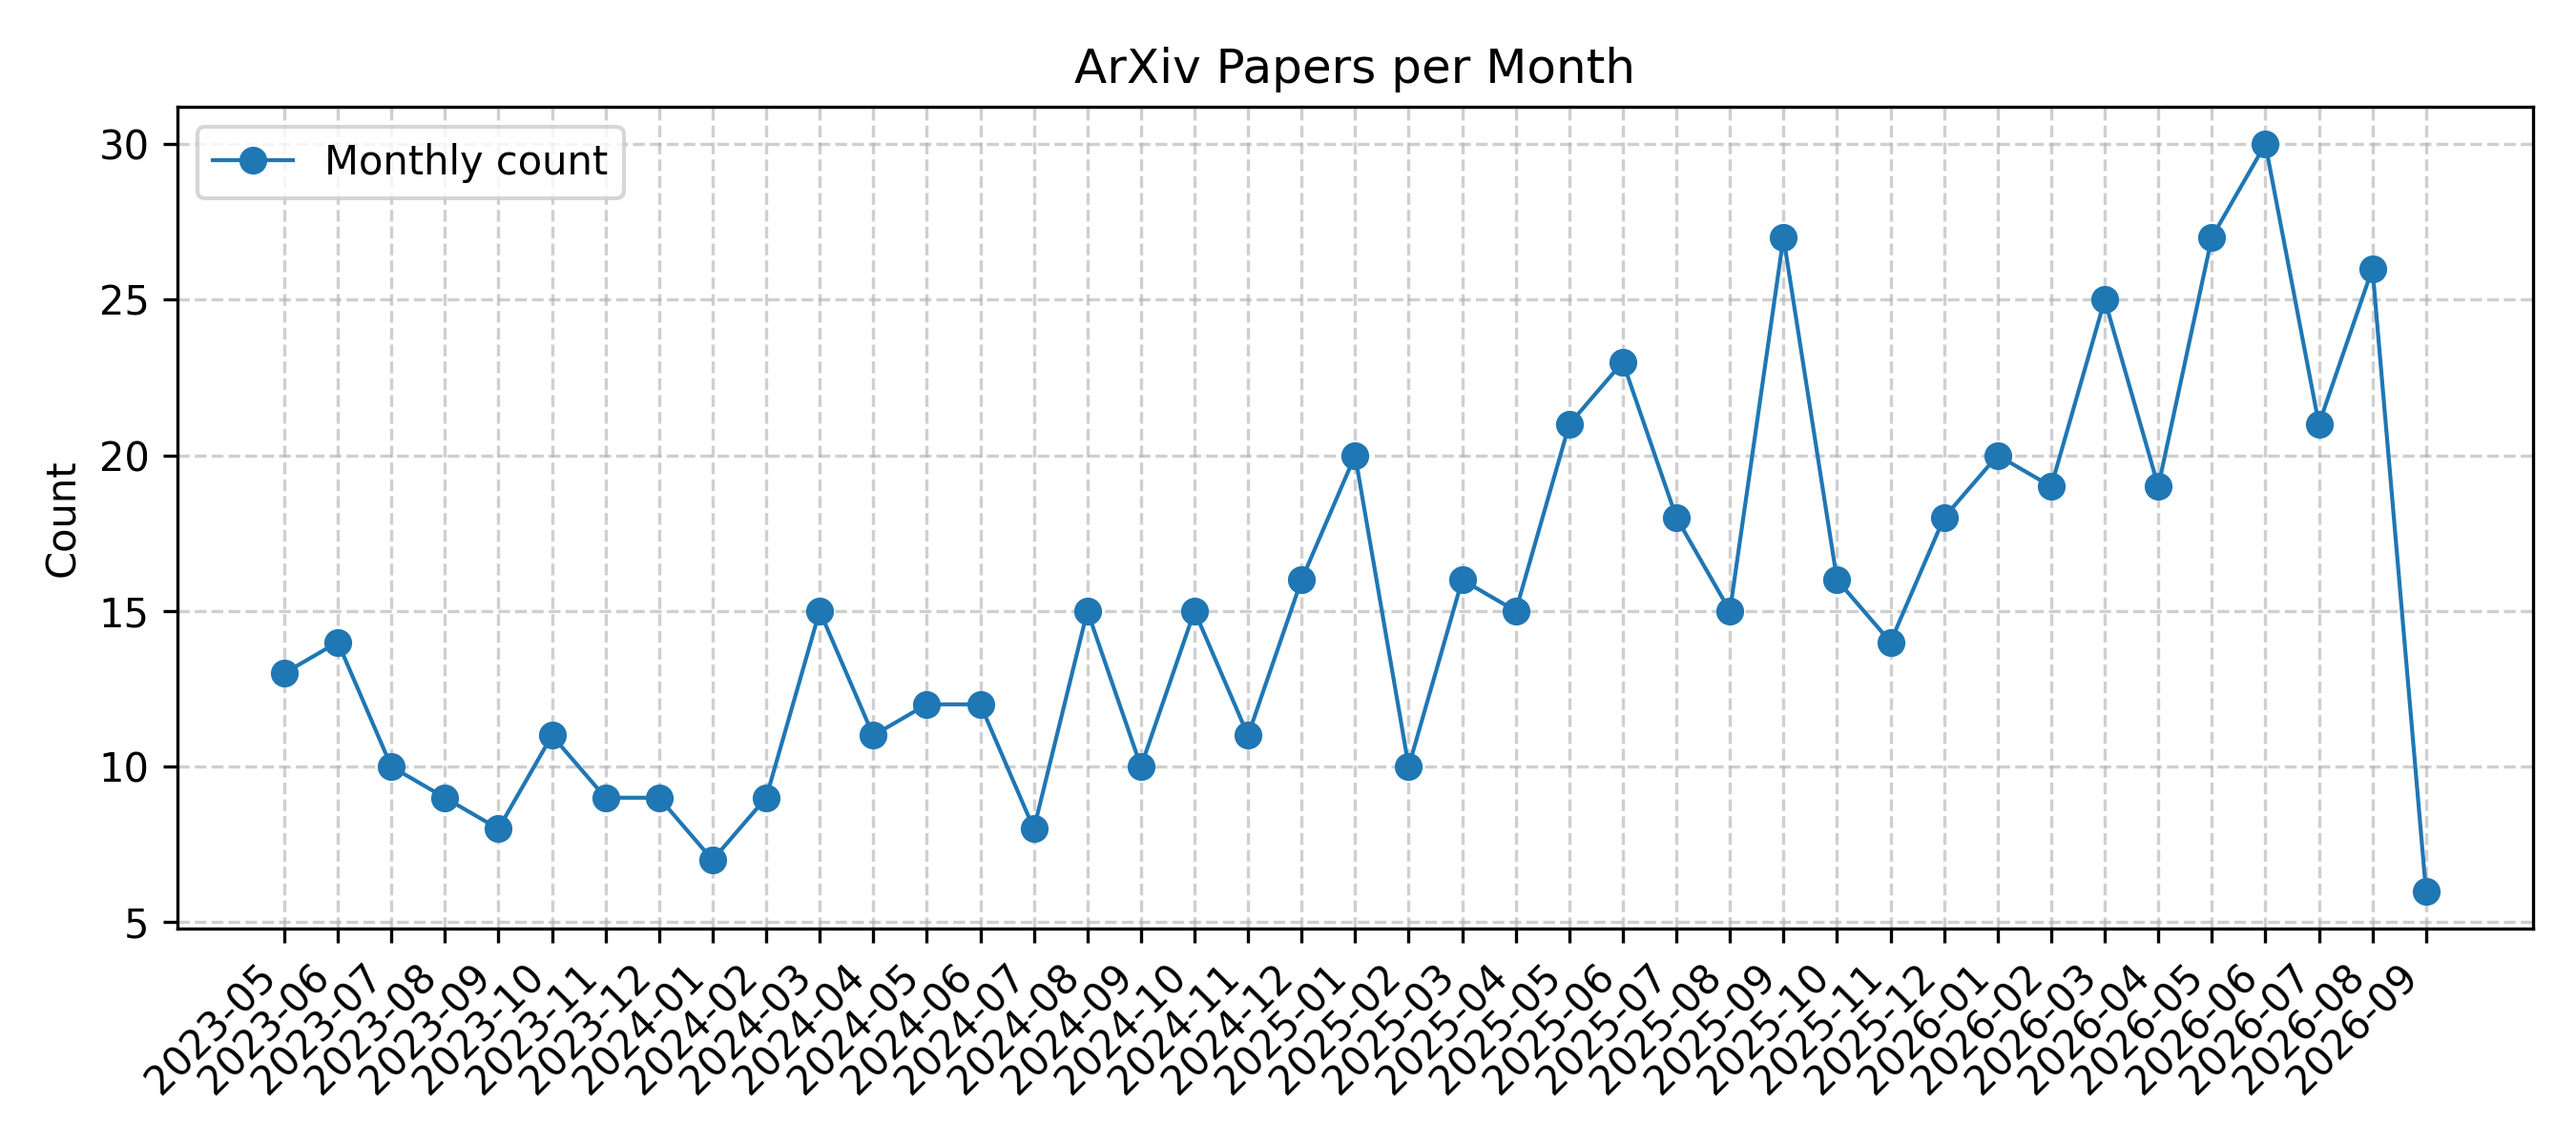
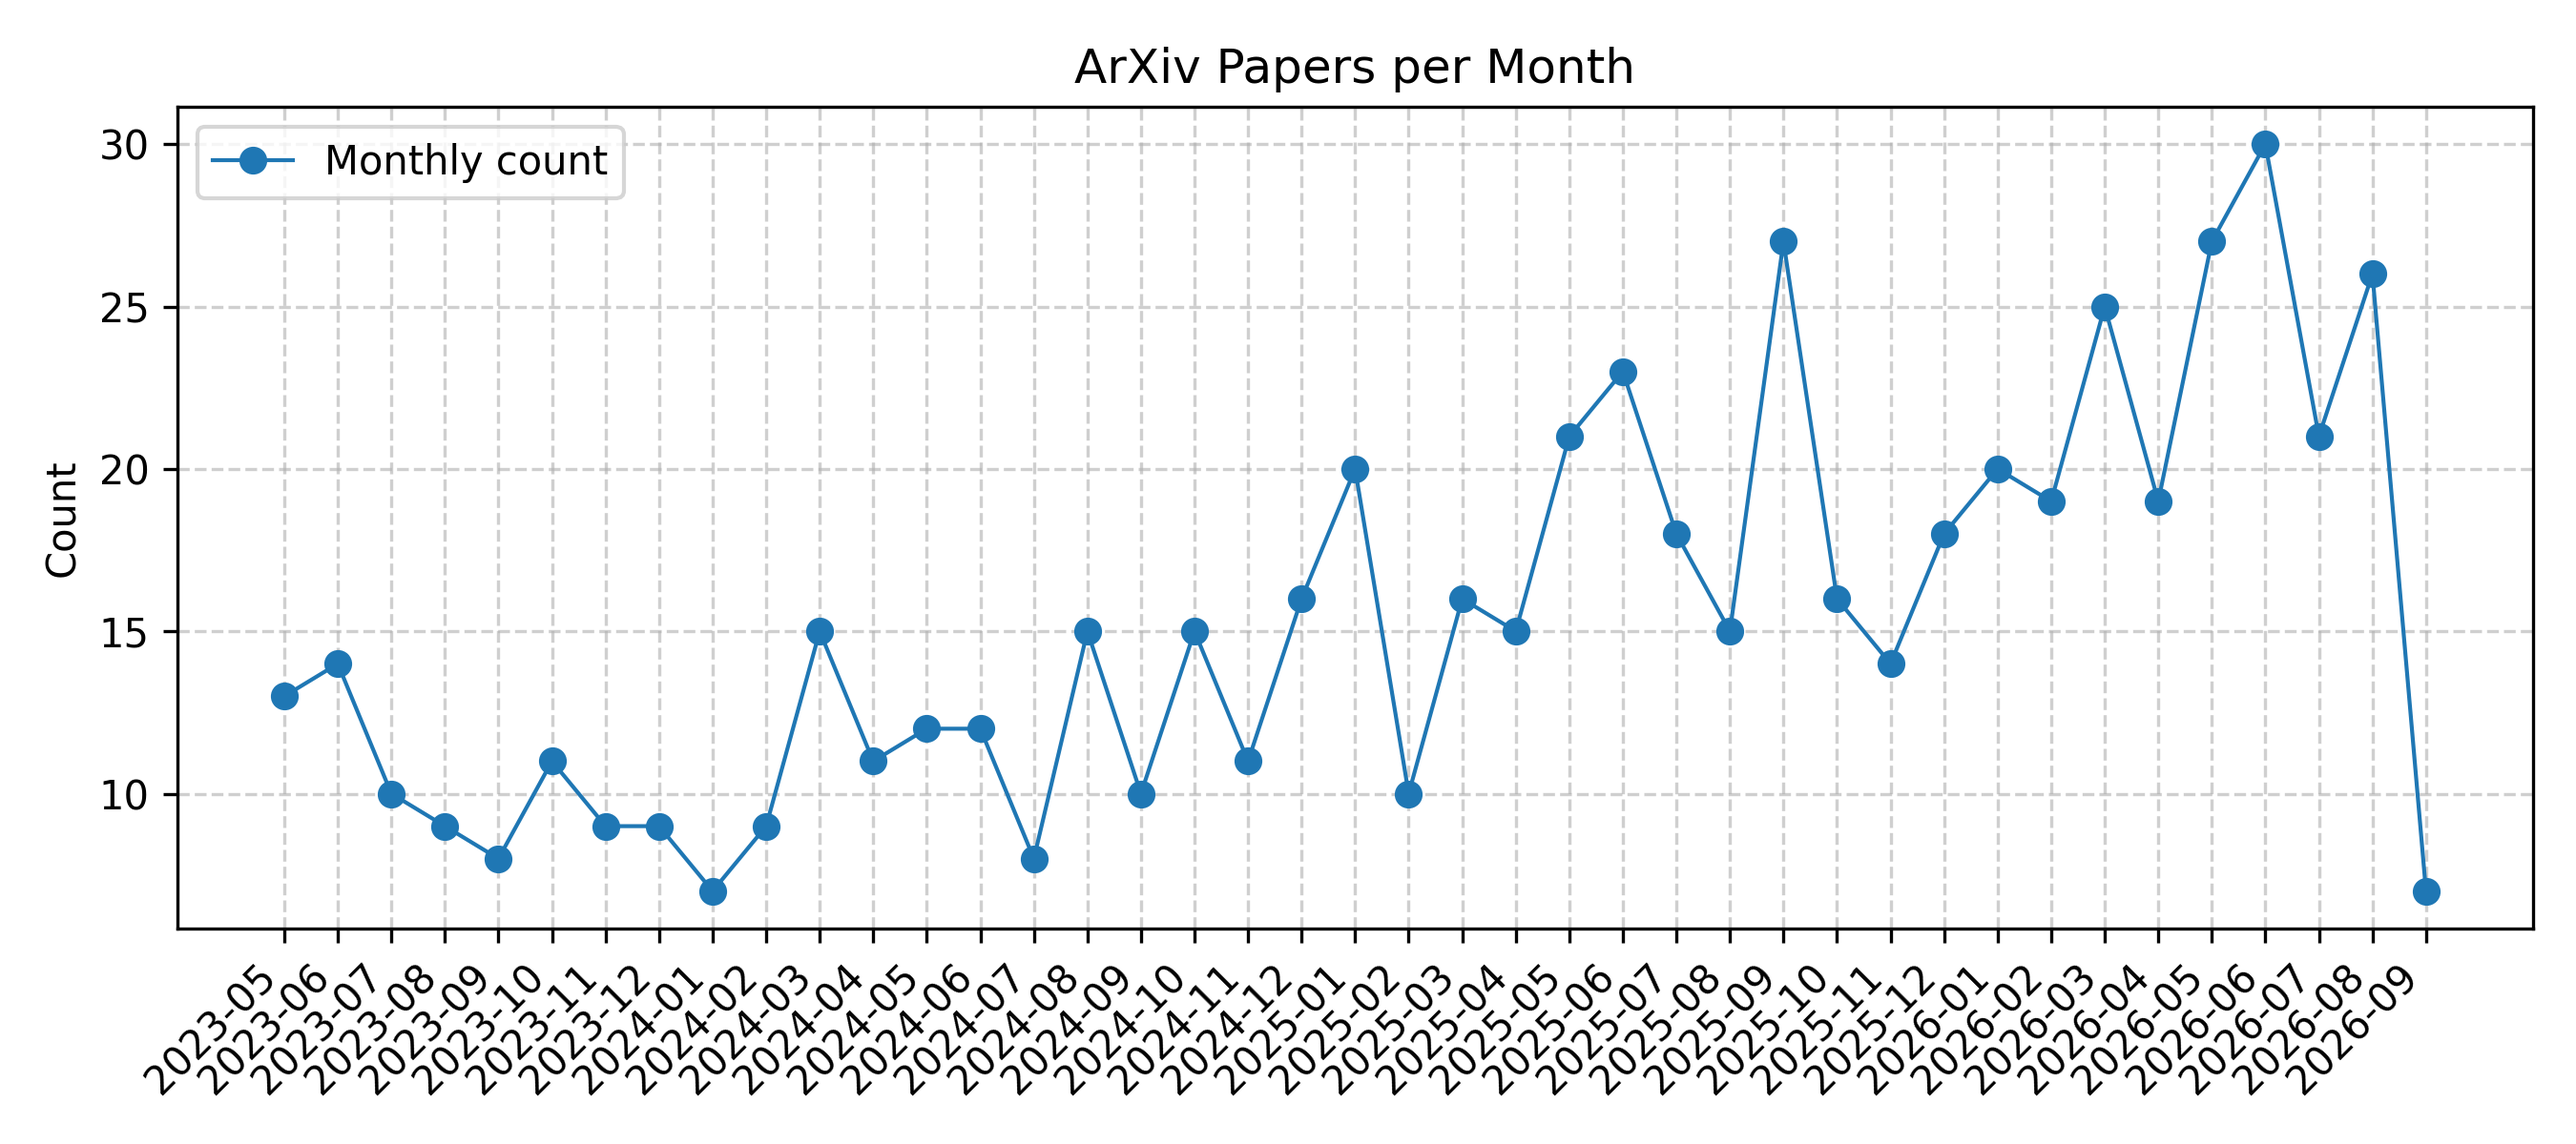
Github Action Automatic Update Diffusion NLP Arxiv Papers

diff --git a/README.md b/README.md
@@ -5,16 +5,17 @@
 
 This repository tracks the latest GraphRAG related papers from arXiv.
 
-## Updated on 2026.09.03
+## Updated on 2026.09.04
 
 ![Monthly Trend](imgs/trend.png)
 
 ## Recent Month Summary (2026-09)
 
-**6 paper(s)** submitted in 2026-09.
+**7 paper(s)** submitted in 2026-09.
 
 |Date|Title|PDF|Code|
 |---|---|---|---|
+|**2026-07-01**|**R$^{2}$Adapter: A Routing and Rewriting Adapter for Efficient Hybrid RAG**|[2609.02894v1](http://arxiv.org/abs/2609.02894v1)| null|
 |**2026-09-02**|**Spectral Initialization and Scheduled Graph Smoothness for Uncertain Knowledge Graph Completion**|[2609.02519v1](http://arxiv.org/abs/2609.02519v1)| null|
 |**2026-09-02**|**PEARL: Path-Entity Aligned Relational Learning with Contextual Subgraphs for Inductive Knowledge Graph Completion**|[2609.02216v1](http://arxiv.org/abs/2609.02216v1)| null|
 |**2026-06-30**|**Hybrid Retrieval-Augmented Generation with Knowledge Graph Expansion, RRF Fusion, and Per-Chunk Grounded Evaluation for Enterprise Document Search**|[2609.01617v1](http://arxiv.org/abs/2609.01617v1)| null|
@@ -26,6 +27,7 @@ This repository tracks the latest GraphRAG related papers from arXiv.
 
 |Date|Title|PDF|Code|
 |---|---|---|---|
+|**2026-07-01**|**R$^{2}$Adapter: A Routing and Rewriting Adapter for Efficient Hybrid RAG**|[2609.02894v1](http://arxiv.org/abs/2609.02894v1)| null|
 |**2026-09-02**|**Spectral Initialization and Scheduled Graph Smoothness for Uncertain Knowledge Graph Completion**|[2609.02519v1](http://arxiv.org/abs/2609.02519v1)| null|
 |**2026-09-02**|**PEARL: Path-Entity Aligned Relational Learning with Contextual Subgraphs for Inductive Knowledge Graph Completion**|[2609.02216v1](http://arxiv.org/abs/2609.02216v1)| null|
 |**2026-06-30**|**Hybrid Retrieval-Augmented Generation with Knowledge Graph Expansion, RRF Fusion, and Per-Chunk Grounded Evaluation for Enterprise Document Search**|[2609.01617v1](http://arxiv.org/abs/2609.01617v1)| null|
@@ -657,7 +659,7 @@ This repository tracks the latest GraphRAG related papers from arXiv.
 |**2024-03-04**|**Pre-trained Language Model with Prompts for Temporal Knowledge Graph Completion**|[2305.07912v2](http://arxiv.org/abs/2305.07912v2)| null|
 |**2023-09-20**|**ACTC: Active Threshold Calibration for Cold-Start Knowledge Graph Completion**|[2305.06395v3](http://arxiv.org/abs/2305.06395v3)| null|
 
-<p align=right>(<a href=#Updated-on-20260903>back to top</a>)</p>
+<p align=right>(<a href=#Updated-on-20260904>back to top</a>)</p>
 
 [contributors-shield]: https://img.shields.io/github/contributors/bansky-cl/graphrag-arxiv-daily-paper.svg?style=for-the-badge
 [contributors-url]: https://github.com/bansky-cl/graphrag-arxiv-daily-paper/graphs/contributors
